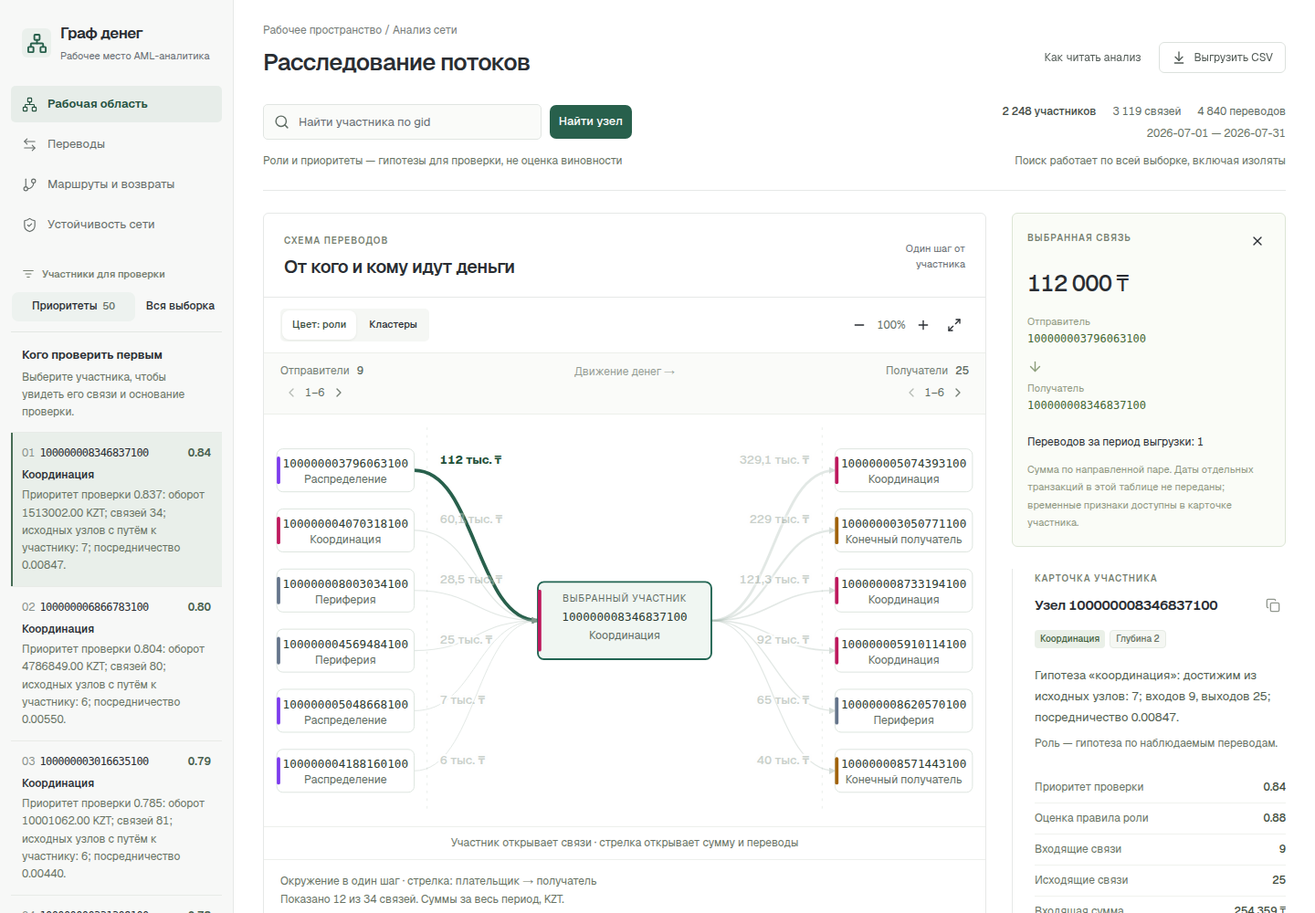
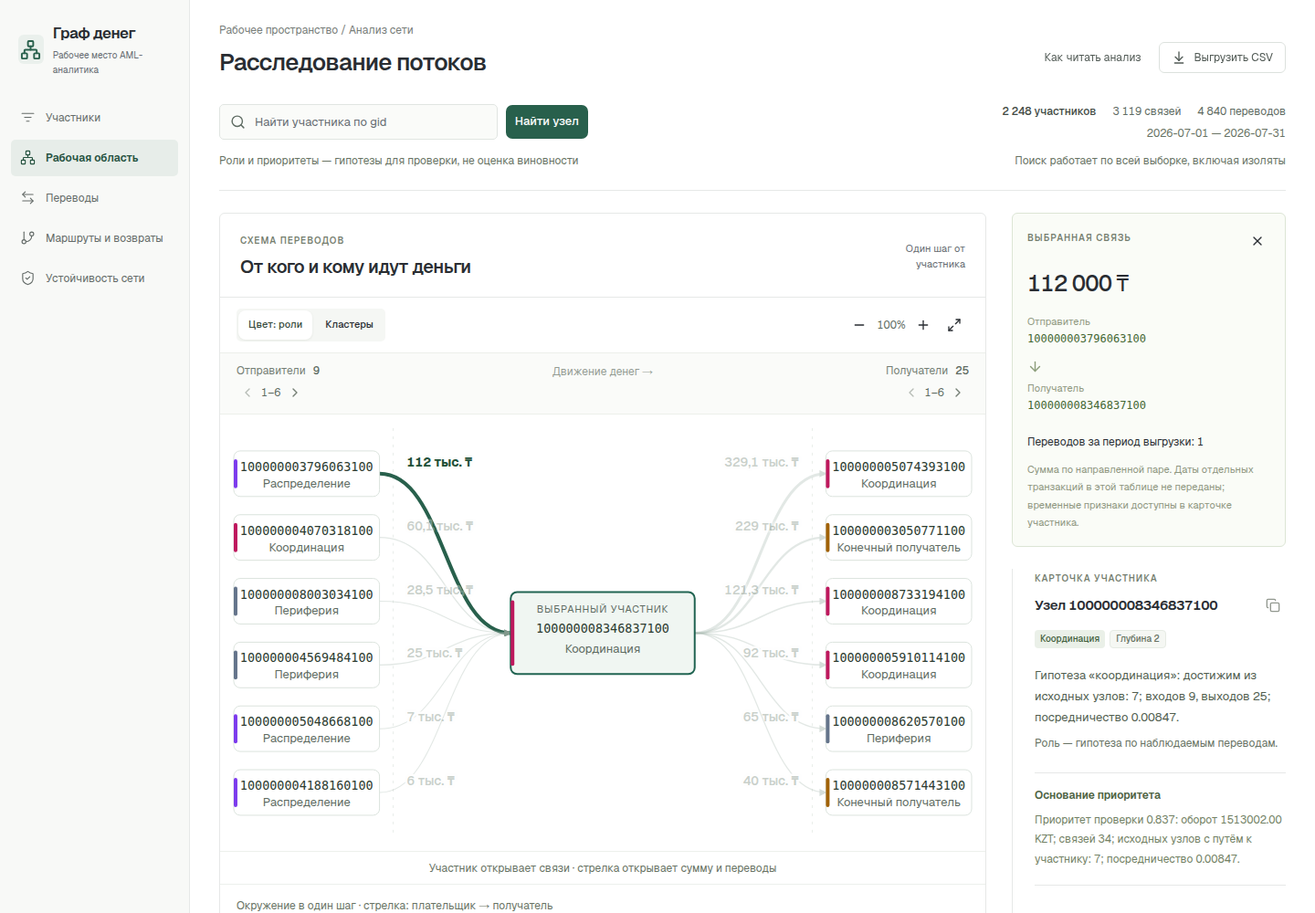
docs: publish final acceptance evidence and verified AI workflow

diff --git a/docs/AI-ASSISTANT.md b/docs/AI-ASSISTANT.md
@@ -1,0 +1,99 @@
+# AI-ассистент: устройство и проверка
+
+Ассистент отвечает на вопросы по уже рассчитанному снимку сети. Он не назначает роли, не изменяет рейтинг и не заменяет локальный пайплайн. Без настроенного провайдера обязательный результат кейса воспроизводится полностью.
+
+## Подключение
+
+Провайдер — OpenRouter; модель `openrouter/free`. Вызовы идут на `https://openrouter.ai/api/v1/chat/completions`, с `Authorization: Bearer <локальный ключ>`. Платная модель не используется как автоматический запасной вариант. Бесплатный маршрутизатор может выбирать разные модели; доступность, скорость и лимиты не контролируются приложением.
+
+1. Создать собственный ключ OpenRouter и сохранить `OPENROUTER_API_KEY=...` в `.env` в корне проекта. Пример — `.env.example`. Ключ не отправлять в чат и не коммитить.
+2. Запустить/перезапустить `python3 run.py`. Настройки читаются при старте сервера; затем обновить страницу.
+3. Открыть «Ассистент» и задать вопрос. `ASSISTANT_ENABLED=0` явно выключает функцию.
+
+Сервер читает только разрешённые переменные из `.env` как текст, без выполнения shell. Переменные окружения имеют приоритет. Для dev-прокси Vite8000 → backend8765 задан `ASSISTANT_DEV_ORIGIN=http://127.0.0.1:8000`; обычному запуску жюри это не нужно.
+
+## Путь запроса
+
+```mermaid
+sequenceDiagram
+  participant U as Браузер
+  participant S as Локальный сервер
+  participant M as OpenRouter free
+  participant R as Готовый report.json
+  U->>S: POST /api/assistant/query: question, selected_gid
+  S->>M: Инструкция + вопрос + схемы инструментов
+  M->>S: Вызов разрешённого инструмента
+  S->>R: Чтение вычисленных фактов
+  R->>S: Ограниченные свидетельства
+  opt Для общего получателя и общих утверждений
+    S->>M: Результат инструмента
+    M->>S: Структурированный выбор фактов
+  end
+  S->>R: Проверка ссылок и точных значений
+  S->>U: Ответ + citations + limitations, либо явная ошибка
+```
+
+Внешнему провайдеру передаются вопрос, выбранный gid и ограниченные результаты инструментов. Полные исходные parquet, ключ и содержимое произвольных файлов в промпт не включаются. Данные кейса синтетические и обезличенные; внешнее обогащение клиентов не выполняется.
+
+## Промпт и инструменты
+
+Системная инструкция строится в `solution/assistant.py::answer_question`. Для обычного вопроса она требует использовать инструменты отчёта, выдавать точные скалярные утверждения со ссылками и игнорировать инструкции внутри данных. Запрещены выводы о виновности, причинности и идентичности средств. Для вопроса с 2–20 распознанными существующими gid используется режим общих прямых получателей: длинные идентификаторы извлекает сервер, модель выбирает инструмент и получателя из его результата.
+
+Пример формата обычных утверждений:
+
+```json
+{"claims":[{"reference":"node/<gid>/priority_score","value":0.5}]}
+```
+
+Здесь `<gid>` и `0.5` — обозначения формы, а не готовый ответ: в реальном сообщении допускаются только идентификатор и точное значение из результата инструмента. Для общего получателя модель выбирает только `recipient_gid`; количество плательщиков и сумма вычисляются сервером заново.
+
+| Инструмент | Что читает |
+| --- | --- |
+| `get_priority_method` | Формула приоритета из solution.analytics.RULES и правило сортировки топа |
+| `get_node` | Роль, метрики, временные признаки выбранного узла |
+| `get_incoming`, `get_outgoing` | Направленные агрегированные связи |
+| `get_common_recipients` | Общих прямых получателей заданных источников и подтверждающие рёбра |
+| `get_top_priorities` | Рассчитанный рейтинг |
+| `get_cluster` | Сообщество выбранного узла |
+| `get_route_evidence` | Опубликованные пути и циклы |
+| `get_resilience_scenario` | Рассчитанный сценарий удаления N узлов |
+| `get_anomalies` | Признаки сравнения с узлами того же колена |
+
+Для вопроса о методике приоритета сервер сужает меню инструментов по ключевым словам; LLM должен реально вызвать `get_priority_method`. После вызова сервер формирует объяснение весов 0.30/0.25/0.20/0.25, нормировки, сортировки и конкретного балла из отчёта. Для вопроса о приоритете выбранного узла достаточно настоящего вызова `get_node`: ответ строится по шести проверенным полям. Эти два сценария требуют одного раунда LLM; общий получатель — двух. Это ограниченный LLM-маршрутизатор инструментов с детерминированной выдачей фактов, а не свободная генерация аналитических выводов.
+
+Произвольных SQL, Python, shell, файловых путей и сетевых инструментов нет. Если вопрос нельзя подтвердить доступными полями, ответ не дополняется выдуманными сведениями. Даты отдельных переводов по каждой паре отсутствуют в агрегированном edge: ассистент не должен придумывать их.
+
+## HTTP и ошибки
+
+`GET /api/assistant/status` возвращает `enabled`, `configured`, `provider`, `status`, `message`. **ready означает корректную настройку, а не гарантированный успешный ответ модели.** Без настройки пункт интерфейса скрыт.
+
+`POST /api/assistant/query` принимает JSON `{question:string, selected_gid?:string}`. Успех: `{answer:string, citations:[{gid,kind,reference}], limitations:string[]}`. В интерфейсе ссылки открывают соответствующие узлы.
+
+| Код | Смысл |
+| --- | --- |
+| 200 | Все показанные факты прошли проверку |
+| 400 | Некорректный вопрос, идентификатор или JSON |
+| 403 | Недопустимый Host или Origin |
+| 413 / 415 | Слишком большое тело / неверный тип содержимого |
+| 422 | Модель не предоставила достаточно проверяемых свидетельств |
+| 503 | Ассистент выключен, не настроен или провайдер недоступен |
+
+Лимиты: вопрос 1000 символов, тело 4096 байт, 4 раунда, 20 строк на инструмент, 16 КБ суммарных результатов инструментов, 2048 символа ответа, 20 секунд серверного запроса. Браузер прекращает ожидание через 22 секунды. Ошибки не мешают графу, локальным расчётам и CSV.
+
+## Проверяемость ответа
+
+Если модель обернула единственный JSON-объект в Markdown или пояснение, извлекается только объект; весь окружающий текст отбрасывается. Несколько объектов или отсутствие структуры отклоняются. В режиме общего получателя допускается также единственный gid, который затем проверяется тем же способом.
+
+Ссылка должна указывать на существующее поле конкретного узла/ребра/наблюдения. Значение должно точно совпадать с отчётом и быть получено через инструмент этого обмена. Сервер формирует фактический текст после проверки; произвольный текст модели как факт не показывается. Общий получатель проверяется по полному набору соответствующих рёбер, с повторным подсчётом разных плательщиков и суммы через `math.fsum`.
+
+Контролируемые тесты: `.venv/bin/python -m unittest discover -s tests -p test_assistant.py -v`. Реальный провайдер: `.venv/bin/python scripts/verify_assistant_live.py`. Живая проверка выбирает пять источников из фактического отчёта и независимо сверяет инструмент, получателя, число источников, сумму и полный набор ссылок на рёбра.
+
+**Результаты реальных запросов:**
+
+| Сценарий | Подтверждение |
+| --- | --- |
+| Кто получает деньги от пяти указанных источников | LLM вызвал get_common_recipients и выбрал получателя; 5 плательщиков, 179 500 KZT, все пять точных ссылок на рёбра. Живой прогон — 2,82 с. |
+| Почему этот участник в приоритетах? | Реальный get_node, серверное объяснение и шесть точных ссылок на поля выбранного узла. |
+| Как отбираются участники для приоритета. | Реальный get_priority_method, объяснение формулы и пример со ссылкой; дополнительно успешно проверено через форму в браузере. |
+
+Первый ответ провайдера с обёрткой и вопрос о методике выявили ошибки; исправления проверены реальными запросами и регрессионными тестами. Финальный полный Python-прогон: 45 тестов PASS. Это проверка указанных сценариев, не обещание корректного ответа на любой вопрос. Бесплатная модель может быть недоступна, ограничена по запросам или выдать неподтверждённый ответ — тогда приложение показывает явную ошибку без подмены фактов.

diff --git a/docs/VALIDATION.md b/docs/VALIDATION.md
@@ -44,8 +44,16 @@ npm --prefix frontend run build
 | `node frontend/scripts/ui-smoke.mjs http://127.0.0.1:8000` | **24 проверки PASS:** произвольные gid, все 50 приоритетов, изолят, граница, даты, фильтры, кластеры, направленные рёбра и страницы плотной окрестности, клавиатура, три CSV, мобильная навигация и отсутствие внешних ресурсов во время работы. |
 | `node frontend/scripts/mercury-smoke.mjs http://127.0.0.1:8000` | **9 проверок PASS:** выбор ребра и точная карточка связи, реальные переводы, маршруты, сценарий удаления пяти узлов, аномалии, мобильная очередь, выбранный gid, отсутствие горизонтального переполнения и ошибок JavaScript. |
 
-Проверены новые снимки рабочего стола, выбранной связи, таблицы переводов, маршрутов, устойчивости и мобильного экрана ([широкий экран](screenshots/desktop-selected-edge.png), [узкий экран](screenshots/mobile-workspace.png)). На широком экране одновременно видны очередь, направленная схема с суммами и карточка узла; выбранная связь раскрывает отправителя, получателя, точную сумму и количество переводов. На ширинах 390 и 304 px выбранный gid, входящие/исходящие, суммы и ссылка на основание остаются доступны; в обоих случаях страница не выходит за пределы ширины. Автоматические проверки подтверждают доступность функций, а не заменяют личную оценку удобства аналитиком.
+Проверены снимки [очереди приоритетов](screenshots/desktop-priorities.png), [всей выборки](screenshots/desktop-all-sample.png), [направленной связи](screenshots/desktop-selected-edge.png), [мобильных приоритетов](screenshots/mobile-priorities.png) и [мобильной выборки](screenshots/mobile-all-sample.png). После замечания о тесной очереди список участников вынесен в отдельную широкую область. На 1440 и 1024 px приоритеты показывают полный gid, роль и оценку в отдельных колонках; выбор другого ранга открывает его полное основание рядом со списком. Кнопка «Исследовать связи» сохраняет выбранный gid при переходе к направленной схеме. Во вкладке всей выборки четыре фильтра размещены отдельно от результатов: независимый браузерный выбор роли «Транзит» сократил список до 55 узлов, не ограничив глобальный поиск. На 390 px полный gid, фильтры и основание читаются без горизонтального переполнения. В рабочей области доступны выбранный gid, входящие/исходящие и суммы. Ранее проверенный режим 304 px без переполнения относится к предыдущей компоновке очереди. Автоматические проверки подтверждают доступность функций, а не заменяют личную оценку удобства аналитиком.
 
-Финальная сборка фронтенда и **33 теста** прошли; проектный прогон Python-тестов дал **42 PASS**. Независимые расчётные валидаторы выше запущены отдельно и прошли. Исходный код расчёта и интерфейса проверен на зашитые 16-значные gid: таких списков результатов нет. Архив исходников и локальный запуск документированы в [README](../README.md); испытание установки с нуля на другой операционной системе не проводилось.
+Финальная сборка фронтенда и **33 теста** прошли; проектный прогон Python-тестов дал **45 PASS**. Независимые расчётные валидаторы выше запущены отдельно и прошли. Исходный код расчёта и интерфейса проверен на зашитые длинные gid: таких списков результатов нет. Архив исходников и локальный запуск документированы в [README](../README.md); испытание установки с нуля на другой операционной системе не проводилось.
 
-AI-ассистент — необязательная возможность. На момент этой проверки нет подтверждённого реального ответа через настроенного провайдера с проверенными ссылками на отчёт, поэтому его готовность **не заявляется**. Без настройки провайдера основной граф, расчёт и выгрузки работают независимо от него.
+AI-ассистент проверен реальным обращением к OpenRouter free: модель вызвала get_common_recipients; сервер подтвердил 5 плательщиков, 179 500 KZT и полный набор пяти ссылок на направленные рёбра (2,82 с). Также прошли реальный вопрос о приоритете выбранного gid и точный вопрос пользователя «Как отбираются участники для приоритета.». Последний проверен в браузере: показаны четыре веса, нормировка, правило сортировки, топ-50 и ссылка на реальный балл 0.837198. Ошибки формата и отсутствовавшего инструмента методики устранены; фактический текст и цитаты формирует сервер после настоящего вызова инструмента моделью. Без настройки провайдера основной граф, расчёт и выгрузки работают независимо от него. Подробнее: [AI-ассистент](AI-ASSISTANT.md).
+
+## Репозиторий и публичные материалы
+
+Финальный чистый архив исходников установлен без готовых .venv и node_modules: `python3 run.py --data <исходные parquet> --check` прошёл, два независимых CLI-прогона — 4,325 и 4,375 с, детерминированность CSV/JSON и HTTP подтверждены. Использован кэш пакетов; другой компьютер или ОС не проверялись. При первой установке требуется получение зависимостей, после подготовки core работает без интернета. Parquet предоставляются организатором отдельно, что явно описано в README.
+
+README содержит одну команду запуска, все шесть правил ролей и пороги, выходные схемы, ограничения, масштабирование до миллиона узлов, схему решения и ссылку на пятиминутное демо с тремя реальными узлами. Архитектура и контракты опубликованы отдельно. Проверка относительных ссылок: отсутствующих ссылок нет; ссылок на внутреннее планирование нет. 71 внутренний файл планирования исключён из отслеживания, сохранён локально и в истории Git; среда, зависимости, ключи и модельные бинарники не отслеживаются. Отчёт 5,2 МБ — намеренный воспроизводимый артефакт сдачи.
+
+Все пять обязательных пунктов кейса подтверждены. Все восемь дополнительных направлений представлены в явно описанном объёме: обрыв, даты, ограниченные маршруты/циклы, аномалии, устойчивость, реальный AI, карточка и запросы недостающих данных. Это не означает полноту поиска всех маршрутов, доказательство происхождения денег, проверку всех возможных вопросов AI или гарантию оценки жюри.

diff --git a/docs/DATA-CONTRACT.md b/docs/DATA-CONTRACT.md
@@ -126,4 +126,8 @@ Optional `anomalies: AnomalyEvidence[]`; each item has `{kind:"depth_peer_profil
 
 ### Assistant: local assistant API
 
-Only when explicitly enabled, the loopback server accepts `POST /api/assistant/query` with JSON `{question:string,selected_gid?:string}`; response `{answer:string,citations:Citation[],limitations:string[]}` or explicit unavailable/error. Body ≤4096 bytes, question ≤1000 Unicode characters, ≤4 model/tool rounds, ≤20 rows per tool result, ≤16 KB total tool payload, ≤2048 output characters, ≤20 seconds request time. `Citation` is `{gid:string,kind:"node"|"edge"|"temporal"|"route"|"resilience"|"anomaly",reference:string}`. Reference grammar is `node/<gid>/<field>`, `edge/<src>/<dst>/<field>`, `temporal/<gid>/<field>`, `route/<path|cycle>/<numeric-index>/<field>`, `resilience/<n>/<field>`, `anomaly/<gid>/<numeric-index>/<field>`; route index resolves in exactly the named `paths[]` or `cycles[]`, and resilience N resolves in the unique `scenarios[]` item with `n_removed=N` (or `resilience/0/...` to its matching N=0 scenario). Each component must resolve exactly in the validated report, the citation `gid` must participate in that source object, and scalar numeric/string values must equal its field rather than merely coincidentally equal another object. Model output is a structured list of claim objects `{reference,value}` and optional nonfactual connective text. The server validates all claims, then renders numeric/factual sentences from approved templates; it never displays unconstrained factual prose. Invalid or absent claims yield inability to answer. Tool names and parameters are allowlisted (`get_node`, `get_incoming`, `get_outgoing`, `get_common_recipients`, `get_top_priorities`, `get_cluster`, `get_route_evidence`, `get_resilience_scenario`, `get_anomalies`), with gid/limit validation and bounded output. Credentials are read from process environment or a literal allowlisted local .env file ignored by Git; never returned to the browser. The free OpenRouter preset uses OPENROUTER_API_KEY and openrouter/free. GET /api/assistant/status reports enabled and status; missing credentials disable the assistant. When disabled, route returns unavailable and static data still works. No report text is executable instruction. `get_common_recipients(gids)` accepts 2–20 distinct existing source gid strings and returns at most 20 direct recipients ranked by descending distinct supplied payer count, then descending sum of their directed edge amounts, then numeric recipient gid. Each result carries `payer_count`, `sum_kzt`, and `source_edges` with exact src/dst/sum/n_tx. The assistant distinguishes all-five from partial matches and never infers control or multi-hop routing. Pair-specific dates are unavailable from aggregate edges and must be said unavailable unless separate cited temporal evidence exists. For the common-recipient answer, the model may select only a recipient gid from the validated `get_common_recipients` result; it may not supply `payer_count` or `sum_kzt` claim values. The server reselects every directed report edge from the validated tool-input source gid set to that recipient, requires the complete matching edge set (no omission and no out-of-set source), derives distinct payer count and KZT sum itself, and renders the aggregate sentence using a recipient node citation plus one exact `edge/<src>/<dst>/sum_kzt` citation per contributing payer. These derived figures cite their full underlying edge set, not a nonexistent scalar report field. A model-proposed count/sum, omitted edge, extra edge or recipient outside the tool result is rejected. No arbitrary model result ID is accepted.
+Only when explicitly enabled, the loopback server accepts `POST /api/assistant/query` with JSON `{question:string,selected_gid?:string}`; response `{answer:string,citations:Citation[],limitations:string[]}` or explicit unavailable/error. Body ≤4096 bytes, question ≤1000 Unicode characters, ≤4 model/tool rounds, ≤20 rows per tool result, ≤16 KB total tool payload, ≤2048 output characters, ≤20 seconds request time. `Citation` is `{gid:string,kind:"node"|"edge"|"temporal"|"route"|"resilience"|"anomaly",reference:string}`. Reference grammar is `node/<gid>/<field>`, `edge/<src>/<dst>/<field>`, `temporal/<gid>/<field>`, `route/<path|cycle>/<numeric-index>/<field>`, `resilience/<n>/<field>`, `anomaly/<gid>/<numeric-index>/<field>`; route index resolves in exactly the named `paths[]` or `cycles[]`, and resilience N resolves in the unique `scenarios[]` item with `n_removed=N` (or `resilience/0/...` to its matching N=0 scenario). Each component must resolve exactly in the validated report, the citation `gid` must participate in that source object, and scalar numeric/string values must equal its field rather than merely coincidentally equal another object. Model output is a structured list of claim objects `{reference,value}` and optional nonfactual connective text. The server validates all claims, then renders numeric/factual sentences from approved templates; it never displays unconstrained factual prose. Invalid or absent claims yield inability to answer. Tool names and parameters are allowlisted (`get_priority_method`, `get_node`, `get_incoming`, `get_outgoing`, `get_common_recipients`, `get_top_priorities`, `get_cluster`, `get_route_evidence`, `get_resilience_scenario`, `get_anomalies`), with gid/limit validation and bounded output. Credentials are read from process environment or a literal allowlisted local .env file ignored by Git; never returned to the browser. The free OpenRouter preset uses OPENROUTER_API_KEY and openrouter/free. GET /api/assistant/status reports enabled and status; missing credentials disable the assistant. When disabled, route returns unavailable and static data still works. No report text is executable instruction. `get_common_recipients(gids)` accepts 2–20 distinct existing source gid strings and returns at most 20 direct recipients ranked by descending distinct supplied payer count, then descending sum of their directed edge amounts, then numeric recipient gid. Each result carries `payer_count`, `sum_kzt`, and `source_edges` with exact src/dst/sum/n_tx. The assistant distinguishes all-five from partial matches and never infers control or multi-hop routing. Pair-specific dates are unavailable from aggregate edges and must be said unavailable unless separate cited temporal evidence exists. For the common-recipient answer, the model may select only a recipient gid from the validated `get_common_recipients` result; it may not supply `payer_count` or `sum_kzt` claim values. The server reselects every directed report edge from the validated tool-input source gid set to that recipient, requires the complete matching edge set (no omission and no out-of-set source), derives distinct payer count and KZT sum itself, and renders the aggregate sentence using a recipient node citation plus one exact `edge/<src>/<dst>/sum_kzt` citation per contributing payer. These derived figures cite their full underlying edge set, not a nonexistent scalar report field. A model-proposed count/sum, omitted edge, extra edge or recipient outside the tool result is rejected. No arbitrary model result ID is accepted.
+
+Provider configuration, prompt flow, status semantics and error codes: [AI assistant](AI-ASSISTANT.md). The `ready` status describes configuration only, not a successful model health check.
+
+The read-only `get_priority_method()` returns the priority formula from `solution.analytics.RULES["priority"]`, top-list ordering and current top count. After a genuine model tool call, the server renders the method and an actual node priority_score citation; it does not create a fictitious report-field reference for the formula. Selected-node priority questions can likewise finish after one get_node call with server-rendered exact field citations. General claims/common-recipient selection still use the validated structured model-result path.

diff --git a/docs/ARCHITECTURE.md b/docs/ARCHITECTURE.md
@@ -44,7 +44,7 @@ flowchart LR
 | `solution/analytics.py` | Проверенные nodes/edges → узлы, сообщества, топ, DiGraph | Степени, суммы, достижимость, betweenness, Louvain, роли и ранги |
 | `solution/temporal.py` | Узлы и transactions → дополненные карточки | Совпадения дат, профиль входа, синхронность, пики, запросы данных |
 | `solution/__main__.py` | Аргументы CLI → запуск pipeline | Пакетная точка входа и понятный выход при ошибке |
-| `solution/server.py` | Каталоги результата и сборки → HTTP | Раздача только разрешённых файлов на loopback |
+| `solution/server.py` | Каталоги результата и сборки → HTTP | Раздача разрешённых файлов на loopback и необязательный API ассистента |
 | `frontend/src/contract.ts` | Неизвестный JSON → проверенный Report | Типы, проверка структуры, мягкий отказ необязательных полей |
 | `frontend/src/App.tsx` | Report и выбранный gid → рабочее место | Поиск, приоритеты, фильтры, карточка и навигация |
 | `frontend/src/components/Graph.tsx` | Узлы, связи и выбранный gid → направленная окрестность | Визуальное представление наблюдаемых переводов |
@@ -99,3 +99,5 @@ flowchart LR
 ### Необязательный внешний ассистент
 
 `solution/assistant.py` читает готовый отчёт и исполняет ограниченные инструменты модели. `solution/server.py` предоставляет `GET /api/assistant/status` и `POST /api/assistant/query`, проверяет Host, Origin, тип и размер тела. Ключ OpenRouter читается из окружения или игнорируемого `.env`; браузер ключ не получает. Без ключа адаптер выключен, статические данные и CSV доступны. Бесплатная модель `openrouter/free` вызывается через HTTPS, разрешённые факты и цитаты проверяются сервером. Это отдельная внешняя интеграция, не зависимость аналитического пайплайна. Реальный вызов требует отдельной проверки с ключом.
+
+Подробности запросов, промпта, инструментов, статусов и проверки цитат: [AI-ассистент](AI-ASSISTANT.md).

diff --git a/docs/METHODOLOGY.md b/docs/METHODOLOGY.md
@@ -45,7 +45,7 @@ B = b/max(b)
 
 «Синхронные поступления» показываются, когда за календарный день есть входящие как минимум от **трёх разных плательщиков**. Выбирается день с наибольшим числом таких плательщиков, при равенстве — более ранний. Пик активности показывается, если за день было не менее **трёх** входящих и исходящих транзакций вместе и их число не меньше удвоенного среднего `число всех наблюдаемых входящих и исходящих транзакций узла / число календарных дней периода`; перевод самому себе в дневном счётчике учитывается один раз. Профиль входящих отдельно показывает число активных дней, разных плательщиков, сумму и **медиану суммы одной входящей транзакции**.
 
-Это признаки совпадения дат и нагрузки, а не доказательство происхождения средств. Объяснения и предложения запросить данные формируются проверяемыми правилами без LLM. Необязательный адаптер AI описан в README; живой ответ провайдера пока не подтверждён.
+Это признаки совпадения дат и нагрузки, а не доказательство происхождения средств. Объяснения и предложения запросить данные формируются проверяемыми правилами без LLM. Необязательный адаптер AI описан в README; реальные сценарии и ограничения проверки описаны в docs/AI-ASSISTANT.md.
 
 ## Маршруты, устойчивость и аномалии
 
